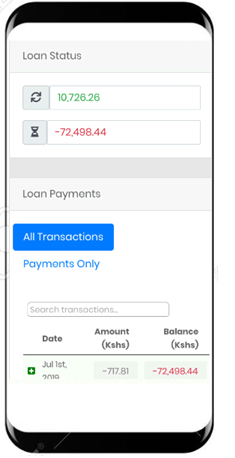
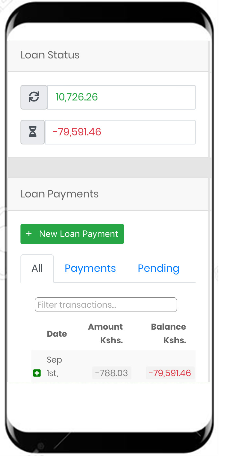
Loan pages update
Updates on loan pages and all stransactions

diff --git a/docs/finances.md b/docs/finances.md
@@ -38,7 +38,7 @@ Details of the Contribution record are:
 - `Image` - used to attach image of banking receipt (useful for approval).
 
 ### Add Contributions
-You can add contributions using the `New Contribution` button on this page.
+If you have deposited your contributions to the bank, You can add your own contributions record using the `New Contribution` button on this page.
 The record will be marked as `Pending` by default until the `Treasurer` edits and approves the record.
 In the `Create Contribution` page, provide the following information:
 
@@ -49,7 +49,7 @@ In the `Create Contribution` page, provide the following information:
 
 ![alt text](images/6.2.1_Allocation_Added.png "Allocation added")
 
-?>Contribution records with a status as `Pending` will not be included in a members total contributions until the `Treasurer` marks it as `Approved`.
+?>Contribution records with a status as `Pending` will not be included in a members total contributions sum until the `Treasurer` marks it as `Approved`.
 
 ##	My Loans
 This page displays a table which lists the displays the details of loans given to the account.
@@ -84,12 +84,36 @@ Details of the loan record include the following:
 - `Memo` – Any additional information regarding the transaction.
 
 The following are  automatically:
-- `Loan status (estimated monthly repayments)` – Estimated Monthly Repayments based on the interest rates and payment periods.
-- `Loan status (outstanding)` – Outstanding loan based on the calculated interest first day payment is expected.
+- Loan status `(estimated monthly repayments)` – Estimated Monthly Repayments based on the interest rates and payment periods.
+- Loan status `(outstanding)` – Outstanding loan based on the calculated interest first day payment is expected.
 
 An additional section is displayed with the following details:
 
-- `Payments` – A list of payments made, and monthly interest calculated for the loan.
+- `Payments` – A list of payments made, and monthly interest calculated for the loan. The records can be viewed from several tabs - `All` to display all transactions including payments and calculated transactions, `Payments` to display just payments without calculated interest `Pending` to display only the payments that are still marked as pending.
+
+### Add Loan Payment
+If you have deposited your a loan payment to the bank, you can add your own contributions record using the `New Loan Payment` button on this page.
+
+<!-- tabs:start -->
+#### **Desktop**
+![alt text](images/5.4_My_Loans_Add_Payment.png "My Loans add payment")
+
+#### **Mobile**
+![alt text](images/5.4_My_Loans_Add_Payment_Mobile_1.png "My Loans Detail")
+![alt text](images/5.4_My_Loans_Add_Paymentl_Mobile_2.png "My Loans Detail")
+<!-- tabs:end -->
+
+In the `Create Loan Payment` page, provide the following information:
+
+- `Date` – Select the date the payment was made.
+- `Amount` – Enter the amount paid.
+- `Memo` – Add any additional information regarding the transaction.
+- `Attachment` - use the `Choose File` button to upload an image of the banking receipt. This will be used as proof for the `Treasurer` to approve the request.
+
+The record will be marked as `Pending` by default until the `Treasurer` edits and approves the record.
+
+?>Loan payment records with a status as `Pending` will not be included in a members total loan payments sum until the `Treasurer` marks it as `Approved`.
+
 
 ## Fund Transactions
 This page displays a table which lists the details of transactions carried out by the Fund (income or Expense).  
@@ -145,3 +169,28 @@ Details of the investment record include:
 - `Investment Value` – The total amount that the investment is worth (including gains and losses).
 - `Memo` – Any additional information regarding the transaction.
 - `Investment Transactions` – a table grid that display individual invest transactions including initial funding, losses gain etc.
+
+## All Transactions
+
+!>This is a read-only page. It consolidates transactions from the various types of transactions to create a statement of all activity in the fund.
+
+This page is used for reconciliation. Practically it should be comparable to the bank statement. It combines and lists all transactions in chronological order with a running total. It is useful to compare with bank statements for determining cash position.
+
+![alt text](images/6.7_All_transactions.png "statement")
+
+The page displays a table with columns follows:
+
+- `Month` - All months listed chronologically since the beginning of the club's financial transactions.
+- `Balance` - A running total that takes into account the previous months balance as well as all the transactions for the respective month.
+
+Each month row has an `expand/collapse` button ![alt text](images/expand_collapse.png "expand/collapse button") that can be used to show or hide transactions individual transactions for that month. When the month row is expanded the corresponding records are displayed with the following columns:
+
+- `Date` - The date that the transaction happened.
+- `Detail` - a description for the particular transactions.
+- `Amount` - The transaction amount. Money in is displayed as green while money out is displayed as red and in negative.
+- `Balance` - The running balance taking into account all previous transactions.
+
+Additionally the page contains the following:
+- `Search transactions` - a search box is also provided to allow you to filter a specific transaction you may be looking for. When you type into the box the table is automatically filter to display just the transactions containing the word being searched.
+
+?>Note that when more than one word is entered into search box, the table displays records corresponding to **any** of the search words.

diff --git a/docs/manage-records.md b/docs/manage-records.md
@@ -208,28 +208,3 @@ From the `Document List` page click on a document record to edit it. The `Edit D
 A `Document` record can be deleted using the `Red Trash can` ![alt text](images/red_trash_button.png "Red trash can button") button next to the record.
 
 ![alt text](images/6.6.1_Delete_document.png "Delete document")
-
-## Statement
-
-!>This is a read-only page. It can only be viewed by the `Admin`, `Treasurer` or member with the permission `finance_write`.
-
-This page is used for reconciliation. Practically it should be comparable to the bank statement. It combines and lists all transactions in chronological order with a running total. It is useful to compare with bank statements for determining cash position.
-
-![alt text](images/6.7_All_transactions.png "statement")
-
-The page displays a table with columns follows:
-
-- `Month` - All months listed chronologically since the beginning of the club's financial transactions.
-- `Balance` - A running total that takes into account the previous months balance as well as all the transactions for the respective month.
-
-Each month row has an `expand/collapse` button ![alt text](images/expand_collapse.png "expand/collapse button") that can be used to show or hide transactions individual transactions for that month. When the month row is expanded the corresponding records are displayed with the following columns:
-
-- `Date` - The date that the transaction happened.
-- `Detail` - a description for the particular transactions.
-- `Amount` - The transaction amount. Money in is displayed as green while money out is displayed as red and in negative.
-- `Balance` - The running balance taking into account all previous transactions.
-
-Additionally the page contains the following:
-- `Search transactions` - a search box is also provided to allow you to filter a specific transaction you may be looking for. When you type into the box the table is automatically filter to display just the transactions containing the word being searched.
-
-?>Note that when more than one word is entered into search box, the table displays records corresponding to **any** of the search words.
